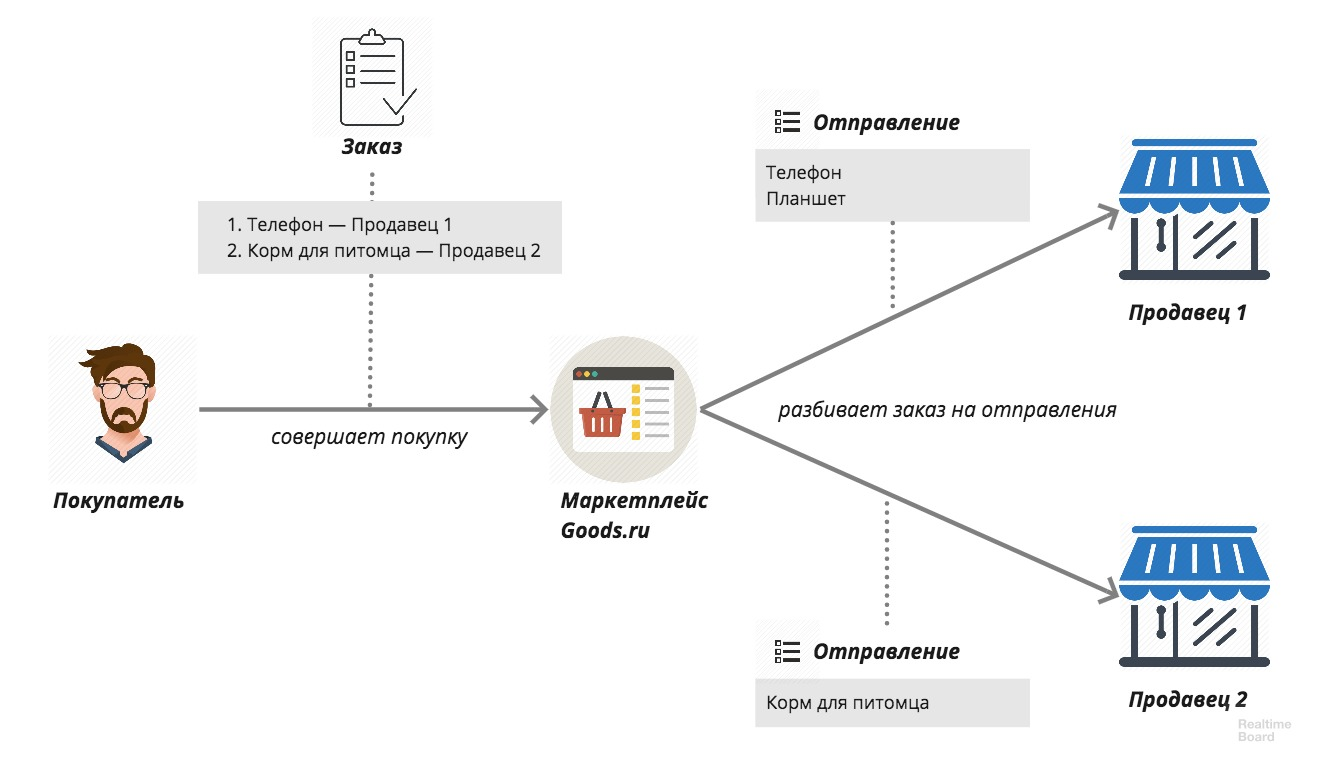
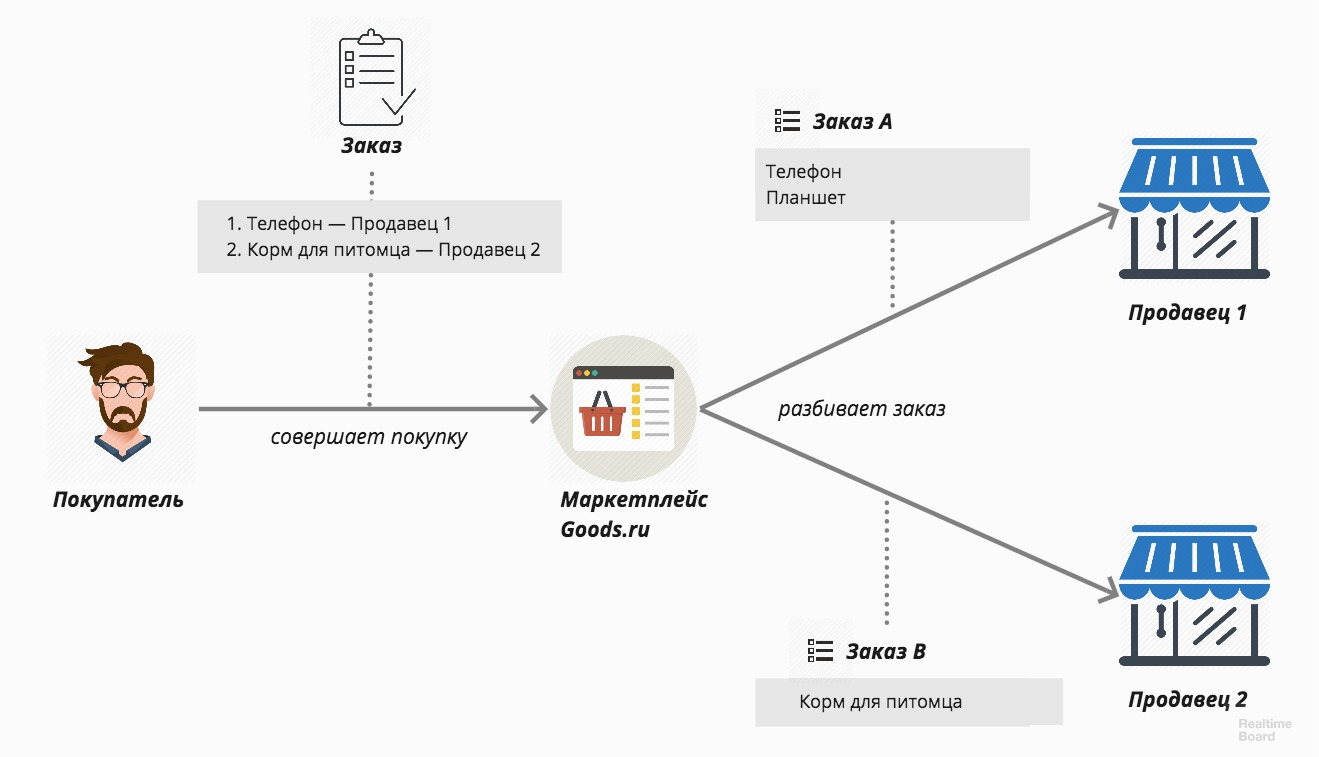
update img 1

diff --git a/index.html b/index.html
@@ -65,7 +65,7 @@
 <h3>Взаимодействие продавцов с Goods</h3>
 
 <ol>
-	<li><em>Продавец</em> подписывает договор об оказании услуг, после чего размещает товарные предложения на сайте Goods. Управление товарными предложениями осуществляется через прайс-лист в формате YML (<a href="https://yandex.ru/support/partnermarket/export/yml.html">подробнее про YML</a>). 
+	<li><em>Продавец</em> подписывает договор об оказании услуг, после чего размещает товарные предложения на сайте Goods. Управление товарными предложениями осуществляется через прайс-лист в формате YML (<a href="#yml">подробнее про YML</a>). 
 
 		<p>Товарные предложения описываются характеристиками:</p>
 
@@ -93,10 +93,10 @@
 		<figure><img src="img-1.jpg"/></figure></li>
 	<li>Для упрощения рассмотрим взаимодействие Goods только с одним из продавцом.
 
-		<p>Продавец, получив новое отправление от Goods проверяет доступное кол-во остатков по каждой из позиции в отправлении и дает свое согласие об отгрузке отправления в указанный срок.</p>
+		<p>Продавец, получив новый заказ от Goods проверяет доступное кол-во остатков по каждой из позиции и дает свое согласие об отгрузке отправления в указанный срок.</p>
 
 		<figure><img src="img-2.jpg"/></figure></li>
-	<li>Продавец комплектует товары по грузовым местам. Каждому грузовому месту присваивается и распечатывается маркировочный лист с уникальным Штрих-кодом. Продавец сообщает в Goods об успешной комплектации отправления для того, чтобы Goods смог передать о Штрих-кодах на Сортировочный Центр.
+	<li>Продавец комплектует товары по грузовым местам. Каждому грузовому месту присваивается и распечатывается маркировочный лист с уникальным Штрих-кодом. Продавец сообщает Goods об успешной комплектации заказа для того, чтобы Goods смог передать о Штрих-кодах на Сортировочный Центр.
 
 		<figure><img src="img-3.jpg"/></figure></li>
 	<li></li>
@@ -136,7 +136,7 @@
 
 <p>Все запросы принимаются только по <code>https</code> в кодировке <code>UTF-8</code> в виде <code>POST</code>-запросов. Ответ формируется в <code>JSON</code>-формате.</p>
 
-<p>Данные типа «Дата» указываются в формате <code>Y-m-d</code> (например <code>2014-03-21</code>), данные типа «Дата/время» — в формате <code>Y-m-d H:i:s</code> (например <code>2014-03-21 05:14:07</code>).</p>
+<p>Данные типа «Дата» указываются в формате <code>Y-m-d</code> (например <code>2014-03-21</code>), данные типа «Дата/время» — в формате <code>Y-m-d H:i:s T</code> (например <code>2014-03-21T05:14:07+03:00 </code>).</p>
 
 <h4>Авторизация</h4>
 
